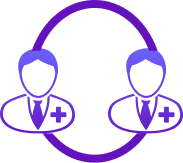
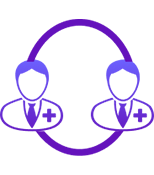
Fixed styling

Changed region(s): [[0.0, 0.0, 1.0, 1.0]]

diff --git a/assets/css/style.css b/assets/css/style.css
@@ -8,6 +8,8 @@ body {
     font-family: 'Inter', sans-serif;
     font-size: 18px;
     overflow-x: hidden;
+    margin: 0 auto;
+    background-color: #e8e8e8;
 }
 
 a {
@@ -92,13 +94,15 @@ nav {
 }
 
 .section-header {
-    padding: 15px 50px;
+    padding: 5%;
     display: flex;
     justify-content: space-between;
     align-items: center;
     height: 100vh;
     width: 100%;
     background-color: #e8e8e8;
+    max-width: 1400px;
+    margin: 0 auto;
 }
 
 h1 {
@@ -106,6 +110,7 @@ h1 {
     font-size: 4rem;
     color: #6305B1;
 }
+
 
 .section-header div:first-of-type {
     width: 50%;
@@ -120,8 +125,8 @@ h1 {
 
 .section-header p {
     width: 90%;
-    font-size: 1rem;
-    color: #6305B1;
+    font-size: rem;
+    color: #323232;
     margin-bottom: 20px;
     margin-right: 0px;
     line-height: 1.5;
@@ -166,30 +171,32 @@ button:hover {
 }
 
 .section-header img {
-    width: 450px;
+    width: 600px;
     height: auto;
 }
+
+
 
 .section-about {
     width: 100%;
     background-color: #6305B1;
-    padding: 100px 50px;
     display: flex;
+    flex-direction: column;
     justify-content: space-between;
     align-items: center;
-    text-align: center;
+    text-align: left;
     color: #fff;
+    padding: 5%;
 }
 
 .section-about div img {
-    width: 90%;
-    margin-right: 10%;
+    width: 450px;
+    margin-right: 20px;
 }
 
-.section-about div:nth-of-type(2) {
-    width: 50%;
+.section-about div {
+    width: 100%;
     display: flex;
-    flex-direction: column;
     align-items: center;
     justify-content: center;
 }
@@ -242,7 +249,7 @@ button:hover {
 }
 
 .section-services h2 {
-    margin-bottom: 100px;
+    margin-bottom: 50px;
 }
 
 .cards {
@@ -250,18 +257,18 @@ button:hover {
     justify-content: space-around;
     align-items: center;
     width: 100%;
+    max-width: 1000px;
 }
 
 .card {
     width: 250px;
-    height: 350px;
     display: flex;
     flex-direction: column;
     text-align: center;
     color: #6305B1;
     border-top-right-radius: 20px;
     border-bottom-left-radius: 20px;
-    box-shadow: 6px 3px 3px 0px rgba(0, 0, 0, 0.48);
+    box-shadow: 6px 3px 40px 0px rgba(0, 0, 0, 0.2);
 }
 
 .card div:first-of-type {
@@ -274,28 +281,35 @@ button:hover {
     display: flex;
     justify-content: center;
     align-items: center;
+    background: #e8e8e8;
 }
 
 .icon img {
-    width: 60%;
+    width: 40%;
     align-items: center;
     justify-content: center;
 }
 
 .card div:last-of-type {
-    height: 50%;
-    padding: 15px;
+    width: 100%;
+    padding: 30px;
     background-color: #F8B25A;
     border-bottom-left-radius: 20px;
 }
 
 .card-details h5 {
     font-size: 1.2rem;
-    margin-bottom: 8px;
+    margin-bottom: 10px;
+    text-align: left;
+    color: #323232;
 }
 
 .card-details p {
     font-size: .8rem;
+    text-align: left;
+    margin-bottom: 10px;
+    color: #323232;
+    line-height: 1rem;
 }
 
 .footer {
@@ -373,6 +387,13 @@ button:hover {
 .toggle .line3 {
     transform: rotate(45deg) translate(-5px, -6px);
 
+}
+
+@media screen and (max-width:1400px) {
+    section {
+        max-width: 1400px;
+        margin: 0 auto;
+    }
 }
 
 @media screen and (max-width:920px) {
@@ -458,19 +479,25 @@ button:hover {
     }
 
     .section-about {
-        background: url(../img/image_2.png) center/cover no-repeat #6305B1;
+        background: #6305B1;
         display: flex;
         flex-direction: column;
         justify-content: center;
         align-items: center;
-        padding: 0;
+        padding: 10% 5%;
+        text-align: left;
     }
 
-    .section-about div:last-of-type {
+        .section-about div:nth-of-type(2) {
+            width: 100%;
+            margin-top: 30px;
+        }
+
+    .section-about div{
         background-color: #6405b1ef;
         width: 100%;
         height: 100%;
-        padding: 50px 50px;
+        display: inline-block;
     }
 
     .section-about h2 {
@@ -479,6 +506,8 @@ button:hover {
 
     .section-about p {
         font-size: 1rem;
+        width: 100%;
+        line-height: 1.8rem;
     }
 
     .section-about div .about-content {
@@ -523,8 +552,12 @@ button:hover {
     }
 
     .section-about div:last-of-type {
-        padding: 50px 20px;
+        padding: 5px 0;
     }
+
+        .section-about div:nth-of-type(2) {
+            margin-top: 1px;
+        }
 
     .section-about p {
         font-size: .8rem;

diff --git a/index.html b/index.html
@@ -61,24 +61,22 @@
         
 
         <section class="section-about" id="about">
+            <h2>About</h2>
             <div>
-                <img src="./assets/img/image_2.png" alt="image">
-            </div>
-            <div>
-                <h2>About</h2>
-
-                <div class="about-content">
-                    <p>E-care is centered towards achieving Sustainable Development Goals (SDGs) goal number three (Good
-                        Health and well being).</p> <br>
-                    <p> It provides Health Record Management which provide solution to Hospital Record Mismanagement
-                        which
-                        has in turn led to loss of several lives.</p> <br>
-                    <p>Rural-Connect focuses on extending good health care to rural dwellers by connecting the rural
-                        community health care providers with their senior counterparts at urban health centers closest
-                        to
-                        them in order to receive guidance in handling emergencies and other critical conditions.</p>
+                <div>
+                    <img src="./assets/img/image_2.png" alt="image">
+                </div>
+                <div>
+                    <div class="about-content">
+                        <p>E-care is centered towards achieving Sustainable Development Goals (SDGs) goal number three (Good Health and well being).<br>
+                       It provides Health Record Management which provide solution to Hospital Record Mismanagement which has in turn led to loss of several lives.<br> Rural-Connect focuses on extending good health care to rural dwellers by connecting the rural
+                            community health care providers with their senior counterparts at urban health centers closest
+                            to
+                            them in order to receive guidance in handling emergencies and other critical conditions.</p>
+                    </div>
                 </div>
             </div>
+            
         </section>
 
         <div class="overlay">
@@ -103,14 +101,16 @@
                     <div class="icon"><img src="./assets/img/icon2.png" alt="icon1"></div>
                     <div class="card-details">
                         <h5>Health Record Management</h5>
-                        <p>We keep a record history of your previous health disgnosis. This is to foster faster future diagnosis especially in cases of emergency.</p>
+                        <p>We keep a record history of your previous health disgnosis. This is to foster faster future diagnosis especially in cases of emergency.
+                            That way, there's no need for unnecesary form filing.
+                        </p>
                     </div>
                 </div>
                 <div class="card">
                     <div class="icon"><img src="./assets/img/icon3.png" alt="icon1"></div>
                     <div class="card-details">
-                        <h5>Rural Connect</h5>
-                        <p>Our services are not limited to urban areas alone. We have a network of agencies in rural settlements to help bridge the gap between quality healthcare and </p>
+                        <h5>Rural <br> Connect</h5>
+                        <p>Our services are not limited to urban areas alone. We have a network of agencies in rural settlements to help bridge the gap in accessing quality healthcare. All you need is an internet coonection.</p>
                     </div>
                 </div>
             </div>

diff --git a/login.html b/login.html
@@ -17,7 +17,7 @@
    <!---------- Header Starts Here ---------------->
     <nav>
         <div class="nav">
-            <div class="nav-logo"><a href="./assets/index.html" class="logo"><img src="./assets/img/logo.png" alt="E-care logo" width="80px"></a></div>
+            <div class="nav-logo"><a href="#" class="logo"><img src="./assets/img/logo.png" alt="E-care logo" width="80px"></a></div>
             <div class="burger">
                 <div class="burger-line line1"></div>
                 <div class="burger-line line2"></div>
@@ -29,7 +29,7 @@
                     <li class="nav-items"><a href="#about" class="nav-link">About</a></li>
                     <li class="nav-items"><a href="#services" class="nav-link">Services</a></li>
                     <li class="nav-items"><a href="#footer" class="nav-link">Contact</a></li>
-                    <li class="nav-items"><a href="login.html" class="nav-link">Login</a></li>                
+                    <li class="nav-items"><a href="./assets/Login/login.html" class="nav-link">Login</a></li>                
                 </ul>
             </div>
         </div>
@@ -55,7 +55,7 @@
                         <div class="pass">Forgot Password?</div>
                             <br>
                         <div class="signup-link">
-                            New to E-care?<a href="signup.html"><span> Signup</span></a>
+                            New to E-care?<a href="#"><span> Signup</span></a>
                         </div>
                     </form>
                 </div>
@@ -103,7 +103,7 @@
 
 <script type="text/javaScript">
     function handleSubmit() {
-        window.location = "zuri-e-care/dashboard.html"
+        window.location = window.origin + "/dashboard.html"
     }
 </script>
 

diff --git a/README.md b/README.md
@@ -1,1 +1,51 @@
-https://chriscrea8.github.io/zuri-e-care/
+<h2><bold>Team</bold></h2>
+PJT-24
+
+<h2><bold>Project Name</bold></h2>
+
+E-Care
+
+
+<h2><bold>Site Link</bold></h2>
+
+https://e-care-pjt-24.netlify.app/
+
+<h2><bold>Project Documentation</bold></h2>
+
+https://docs.google.com/document/d/1O5nmOQxj5fraqqKJf5mnuZ_JoSvRJLE6e_XwNaNBy-k/edit
+
+
+<h2><bold>About E-Care</bold></h2>
+
+E-care is centered towards achieving SDGs goal number three (good health and well being). This would be achieved through the two key features of the app namely; Health record management  which provide solution to hospital record mismanagement which has in turn led to loss of several lives and rural-connect    focuses on extending good health care to rural dwellers by connecting the rural community health care providers with their senior counterparts at urban health centers closest to them, so as to receive guidance in handling emergencies and other critical conditions.
+
+<h2><bold>Design</bold></h2>
+
+Design was done using figma. Here is the figma link - https://www.figma.com/file/ZRwCf0RVsuwgmyD5ewN8rC/E-CARE?node-id=4%3A42
+
+<h2><bold>Contribution guide</bold></h2>
+
+
+1. Fork the repository
+2. Clone and then open it up on your code editor
+3. Open terminal and set upsream branch: git remote add upstream https://github.com/zuri-training/E-Care-FE-pjt-24.git
+4. Pull upstream git pull upstream develop
+5. Create a new branch for the task your are doing eg: git checkout -b home-page
+6. After making changes, do git add .
+7. Commit your changes with a descriptive commit messagegit commit -m "commit message"
+8. To make sure there are no conflicts: git pull upstream develop
+9. Push changes to your new branch: git push origin your-current-branch-name
+10. Create a pull request to the develop branch
+
+<h2><bold>Project Structure</bold></h2>
+
+
+1. **ASSETS FOLDER**
+    This folder contains all the images and icons, javascript and css scripts used in the project.
+
+2. **ROOT FOLDER**
+    This is the **parent** folder that will contain all the html files in the projects
+
+
+
+
